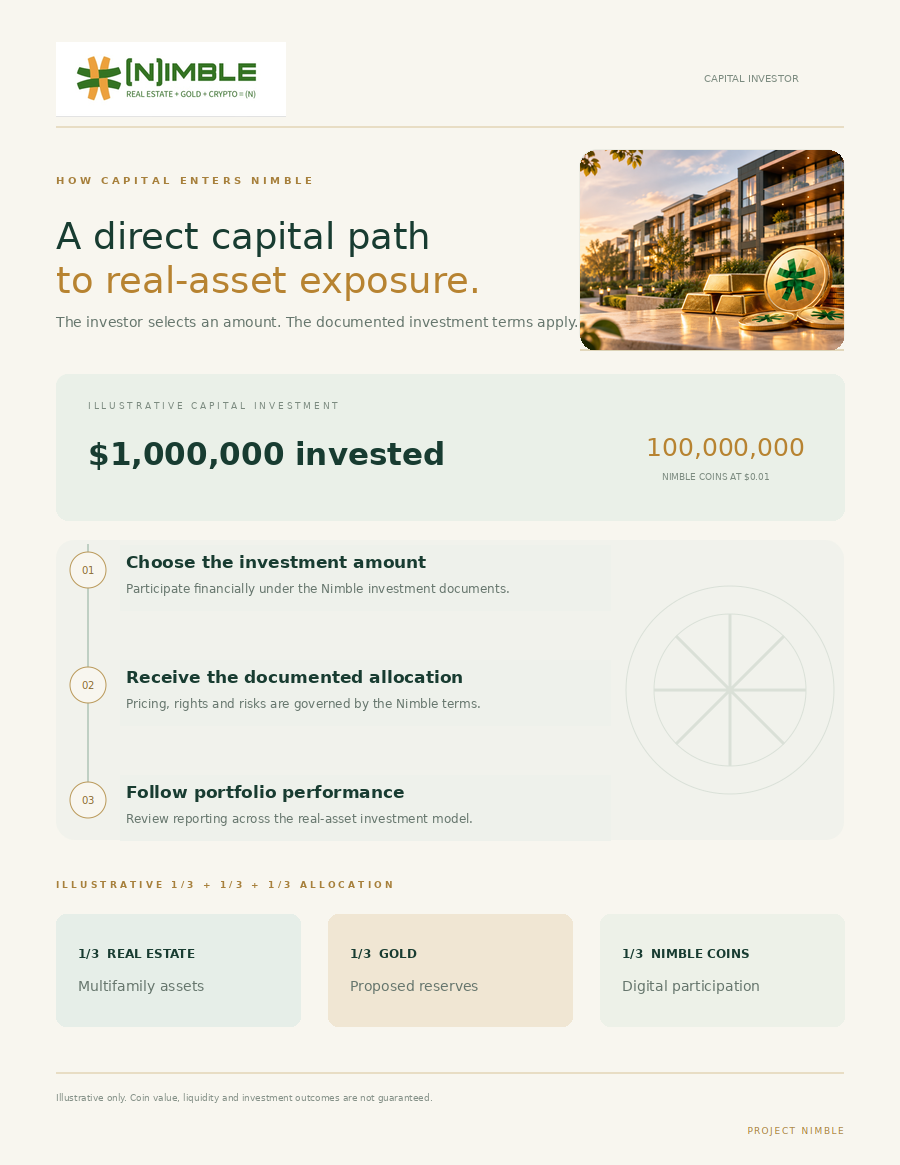
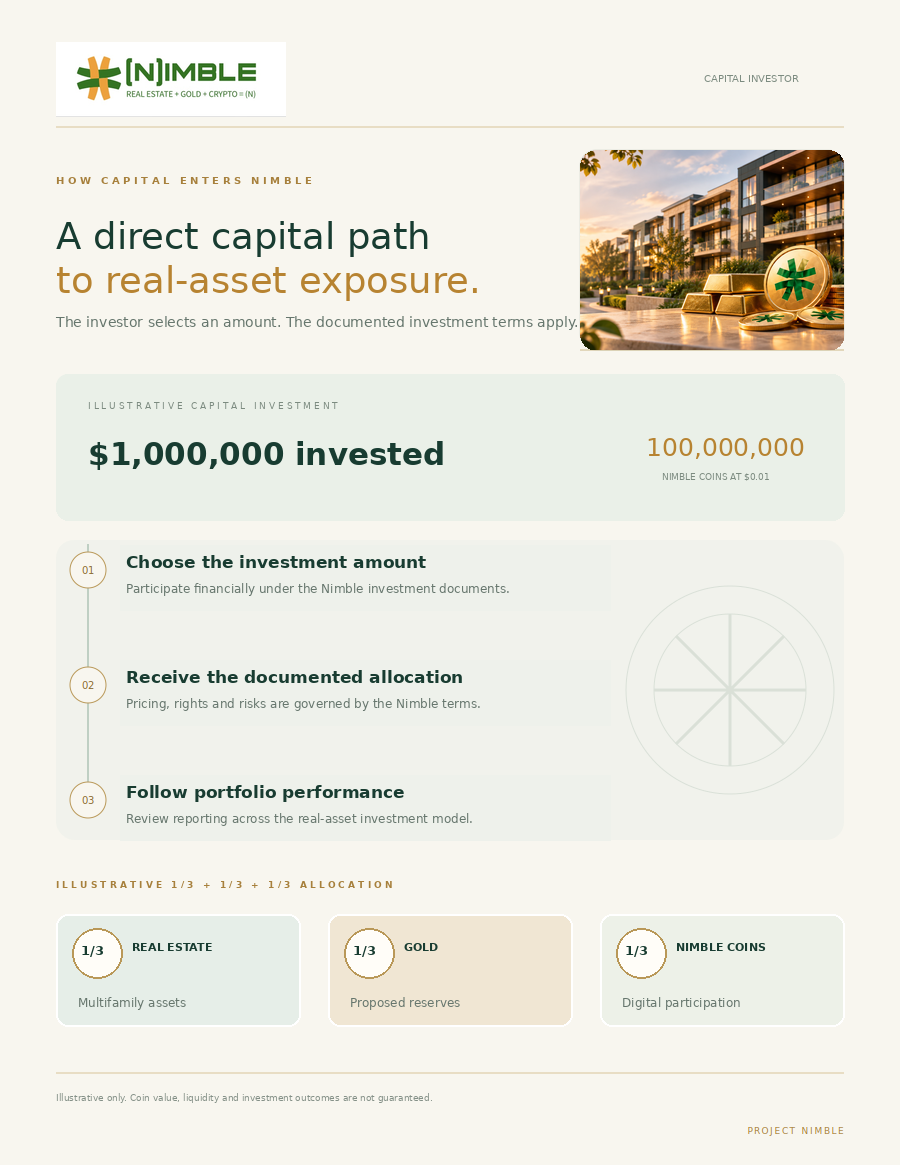
Refresh investor pages and allocation materials

Changed region(s): [[0.0622, 0.7725, 0.2178, 0.8652], [0.6844, 0.8034, 0.84, 0.8652], [0.3733, 0.7725, 0.5289, 0.8652]]

diff --git a/property-owners.html b/property-owners.html
@@ -2,6 +2,6 @@
 <header class="header container"><a class="brand" href="index.html"><img class="brand-logo" src="nimble-logo.jpg" alt="Project Nimble logo: Real Estate + Gold + Crypto = (N)"></a><nav class="nav"><a href="#approach">The approach</a><a href="#illustration">Owner example</a><a class="nav-cta" href="#next-step">Start a conversation</a></nav></header>
 <main><section class="container hero"><div><p class="kicker">For multifamily property owners</p><h1>Your property can be your investment in <em>Nimble.</em></h1><p class="lede">Contribute a qualifying multifamily property and convert its agreed value into a position within Nimble's real-estate, gold and digital-asset investment model.</p><div class="actions"><a class="button primary" href="#approach">Explore the property path <b>→</b></a><a class="button secondary" href="property-owner-sell-sheet.pdf">Sell sheet</a><a class="button secondary" href="property-owner-infographic.png">Infographic</a></div><p class="hero-note">Designed for multifamily properties, generally 20+ units. Every opportunity is subject to property review, valuation, agreement and documentation.</p></div><div class="visual property-photo"><img src="property-owner-hero.png" alt="Modern multifamily property with a dimensional Nimble coin"><span class="visual-label">Property value · translated into a Nimble position</span></div></section>
 <section class="section alt" id="approach"><div class="container"><div class="section-head"><p class="kicker">A property-first discussion</p><h2>Start with the building. Define the investment together.</h2><p>Each property has its own operating history, capital needs and ownership structure. The first conversation is about fit and diligence.</p></div><div class="steps"><article class="step"><span class="num">01 / PROPERTY</span><h3>Assess the asset</h3><p>Review unit count, operating history, condition, debt, valuation and ownership.</p></article><article class="step"><span class="num">02 / TERMS</span><h3>Set the transaction</h3><p>Document the agreed valuation, contribution mechanics, owner position and Nimble investment terms.</p></article><article class="step"><span class="num">03 / PORTFOLIO</span><h3>Plan the transition</h3><p>Define management, reporting, reserves and responsibilities before any property changes hands.</p></article></div></div></section>
-<section class="section" id="illustration"><div class="container"><div class="example"><div><p class="kicker">Illustrative property contribution</p><h2>$1 million in agreed property value.</h2><p>At the illustrative launch price of $0.01 per coin, a $1 million property contribution corresponds to 100 million Nimble coins, subject to the governing documents.</p></div><div><div class="example-figure"><div><strong>$1M</strong><span>Property value</span></div><div class="arrow">→</div><div><strong>100M</strong><span>Nimble coins at $0.01</span></div></div><div class="common-terms"><strong>Illustrative 1/3 + 1/3 + 1/3 allocation</strong><span>One-third real estate · one-third gold reserves · one-third Nimble coins.</span></div></div></div><div class="steps" style="margin-top:20px"><article class="step"><span class="num">1/3 / REAL ESTATE</span><h3>Multifamily assets</h3><p>Income-oriented property exposure within the documented Nimble structure.</p></article><article class="step"><span class="num">1/3 / GOLD</span><h3>Proposed reserves</h3><p>A tangible reserve component within the overall allocation.</p></article><article class="step"><span class="num">1/3 / NIMBLE COINS</span><h3>Digital participation</h3><p>The coin allocation is calculated from the documented value and reference price.</p></article></div><div class="split" style="margin-top:20px"><article class="split-card"><h3>Retained property interest</h3><p>Any interest retained by the contributing owner is documented separately from the three-part Nimble allocation.</p></article><article class="split-card"><h3>Defined in writing</h3><p>Valuation, ownership interests, coin allocation, decision rights and closing mechanics are established in the signed documents.</p></article></div></div></section>
+<section class="section" id="illustration"><div class="container"><div class="example"><div><p class="kicker">Illustrative property contribution</p><h2>$1 million in agreed property value.</h2><p>At the illustrative launch price of $0.01 per coin, a $1 million property contribution corresponds to 100 million Nimble coins, subject to the governing documents.</p></div><div><div class="common-terms allocation-summary"><strong>Illustrative 1/3 + 1/3 + 1/3 allocation</strong><span>One-third real estate · one-third gold reserves · one-third Nimble coins.</span></div><div class="example-figure"><div><strong>$1M</strong><span>Property value</span></div><div class="arrow">→</div><div><strong>100M</strong><span>Nimble coins at $0.01</span></div></div></div></div><div class="steps allocation-steps" style="margin-top:20px"><article class="step" data-share="⅓"><span class="num">1/3 / REAL ESTATE</span><h3>Multifamily assets</h3><p>Income-oriented property exposure within the documented Nimble structure.</p></article><article class="step" data-share="⅓"><span class="num">1/3 / GOLD</span><h3>Proposed reserves</h3><p>A tangible reserve component within the overall allocation.</p></article><article class="step" data-share="⅓"><span class="num">1/3 / NIMBLE COINS</span><h3>Digital participation</h3><p>The coin allocation is calculated from the documented value and reference price.</p></article></div><div class="split" style="margin-top:20px"><article class="split-card"><h3>Retained property interest</h3><p>Any interest retained by the contributing owner is documented separately from the three-part Nimble allocation.</p></article><article class="split-card"><h3>Defined in writing</h3><p>Valuation, ownership interests, coin allocation, decision rights and closing mechanics are established in the signed documents.</p></article></div></div></section>
 <section class="closing" id="next-step"><div class="container"><p class="kicker">Begin with your property</p><h2>Is your multifamily asset a fit for Nimble?</h2><p>Review the property-owner overview, then bring your asset profile and questions to an introductory discussion.</p><a class="button primary" href="property-owner-sell-sheet.pdf">Open property-owner sell sheet <b>↓</b></a></div></section></main>
 <footer class="container footer"><div class="footer-top"><a class="brand" href="index.html"><img class="brand-logo" src="nimble-logo.jpg" alt="Project Nimble logo: Real Estate + Gold + Crypto = (N)"></a><span>Property-owner investment overview</span></div><div class="disclaimer">Discussion draft only. This page does not constitute an offer, solicitation, appraisal, valuation or promise of investment outcome. Property valuation, any retained owner interest, coin allocation, decision rights and transaction mechanics are subject to due diligence, definitive agreements and applicable law. Coin value may change and is not guaranteed. A Nimble coin does not itself convey title to real estate.</div></footer></body></html>

diff --git a/financial-investors.html b/financial-investors.html
@@ -2,6 +2,6 @@
 <header class="header container"><a class="brand" href="index.html"><img class="brand-logo" src="nimble-logo.jpg" alt="Project Nimble logo: Real Estate + Gold + Crypto = (N)"></a><nav class="nav"><a href="#thesis">The approach</a><a href="#terms">Capital example</a><a class="nav-cta" href="#next-step">Explore Nimble</a></nav></header>
 <main><section class="container hero"><div><p class="kicker">For capital investors</p><h1>Put capital to work across <em>real assets.</em></h1><p class="lede">Invest financially in Nimble's model connecting professionally managed multifamily real estate, gold reserves and a digital participation instrument.</p><div class="actions"><a class="button primary" href="#thesis">See the investment approach <b>→</b></a><a class="button secondary" href="capital-investor-sell-sheet.pdf">Sell sheet</a><a class="button secondary" href="capital-investor-infographic.png">Infographic</a></div><p class="hero-note">Financial participation is governed by the Nimble investment documents. A Nimble coin does not itself grant title to an underlying property.</p></div><div class="visual capital-photo"><img src="capital-investor-hero.png" alt="Modern multifamily property with gold bars and dimensional Nimble-style coins"><span class="visual-label">Capital investment · real estate + gold + Nimble coins</span></div></section>
 <section class="section alt" id="thesis"><div class="container"><div class="section-head"><p class="kicker">Investment thesis</p><h2>A financial investment designed around three complementary components.</h2><p>Nimble connects professionally managed multifamily real estate, a proposed gold reserve component and Nimble coins within one documented investment framework.</p></div><div class="steps"><article class="step"><span class="num">01 / REAL ESTATE</span><h3>Multifamily assets</h3><p>Income-oriented residential properties form the operating base of the portfolio concept.</p></article><article class="step"><span class="num">02 / RESERVES</span><h3>Gold reserves</h3><p>A proposed reserve component intended to add a tangible store-of-value dimension.</p></article><article class="step"><span class="num">03 / DIGITAL</span><h3>Nimble coins</h3><p>A digital participation instrument whose rights, pricing and risks are defined in the governing documents.</p></article></div></div></section>
-<section class="section" id="terms"><div class="container"><div class="example"><div><p class="kicker">Illustrative capital investment</p><h2>$1 million invested financially.</h2><p>At the illustrative launch price of $0.01 per coin, a $1 million capital investment corresponds to 100 million Nimble coins, subject to the governing documents.</p></div><div><div class="example-figure"><div><strong>$1M</strong><span>Capital invested</span></div><div class="arrow">→</div><div><strong>100M</strong><span>Nimble coins at $0.01</span></div></div><div class="common-terms"><strong>Illustrative 1/3 + 1/3 + 1/3 allocation</strong><span>One-third real estate · one-third gold reserves · one-third Nimble coins.</span></div></div></div><div class="steps" style="margin-top:20px"><article class="step"><span class="num">1/3 / REAL ESTATE</span><h3>Multifamily assets</h3><p>Income-oriented property exposure within the documented Nimble structure.</p></article><article class="step"><span class="num">1/3 / GOLD</span><h3>Proposed reserves</h3><p>A tangible reserve component within the overall allocation.</p></article><article class="step"><span class="num">1/3 / NIMBLE COINS</span><h3>Digital participation</h3><p>The coin allocation is calculated from the documented investment and reference price.</p></article></div><div class="split" style="margin-top:20px"><article class="split-card"><h3>Financial participation only</h3><p>Capital investors use the same allocation framework without contributing or retaining a property interest.</p></article><article class="split-card"><h3>What to review</h3><p>Review the governing investment documents for pricing, rights, eligibility, risks, liquidity and use-of-funds terms.</p></article></div></div></section>
+<section class="section" id="terms"><div class="container"><div class="example"><div><p class="kicker">Illustrative capital investment</p><h2>$1 million invested financially.</h2><p>At the illustrative launch price of $0.01 per coin, a $1 million capital investment corresponds to 100 million Nimble coins, subject to the governing documents.</p></div><div><div class="common-terms allocation-summary"><strong>Illustrative 1/3 + 1/3 + 1/3 allocation</strong><span>One-third real estate · one-third gold reserves · one-third Nimble coins.</span></div><div class="example-figure"><div><strong>$1M</strong><span>Capital invested</span></div><div class="arrow">→</div><div><strong>100M</strong><span>Nimble coins at $0.01</span></div></div></div></div><div class="steps allocation-steps" style="margin-top:20px"><article class="step" data-share="⅓"><span class="num">1/3 / REAL ESTATE</span><h3>Multifamily assets</h3><p>Income-oriented property exposure within the documented Nimble structure.</p></article><article class="step" data-share="⅓"><span class="num">1/3 / GOLD</span><h3>Proposed reserves</h3><p>A tangible reserve component within the overall allocation.</p></article><article class="step" data-share="⅓"><span class="num">1/3 / NIMBLE COINS</span><h3>Digital participation</h3><p>The coin allocation is calculated from the documented investment and reference price.</p></article></div><div class="split" style="margin-top:20px"><article class="split-card"><h3>Financial participation only</h3><p>Capital investors use the same allocation framework without contributing or retaining a property interest.</p></article><article class="split-card"><h3>What to review</h3><p>Review the governing investment documents for pricing, rights, eligibility, risks, liquidity and use-of-funds terms.</p></article></div></div></section>
 <section class="closing" id="next-step"><div class="container"><p class="kicker">Capital participation</p><h2>Evaluate the Nimble investment opportunity.</h2><p>Review the capital-investor overview and the governing documents before making any investment decision.</p><a class="button primary" href="capital-investor-sell-sheet.pdf">Open capital-investor sell sheet <b>↓</b></a></div></section></main>
 <footer class="container footer"><div class="footer-top"><a class="brand" href="index.html"><img class="brand-logo" src="nimble-logo.jpg" alt="Project Nimble logo: Real Estate + Gold + Crypto = (N)"></a><span>Capital-investor overview</span></div><div class="disclaimer">Discussion draft only. This page does not constitute an offer, solicitation, investment recommendation or promise of investment outcome. Coin value may change and is not guaranteed. A Nimble coin does not itself convey title to real estate. Refer to the governing documents for the complete terms, risks and eligibility requirements.</div></footer></body></html>

diff --git a/styles.css b/styles.css
@@ -32,4 +32,30 @@
 /* Integrate the logo and navigation with the page instead of a separate strip. */
 .header{padding-right:24px;border-bottom:0;background:#fff}
 .brand-logo{mix-blend-mode:multiply}
+.example-figure>div:first-child,.example-figure>div:last-child{position:relative;padding:16px 10px 14px;border:1px solid #ffffff26;background:linear-gradient(145deg,#ffffff12,#ffffff04);border-radius:3px}
+.example-figure>div:first-child:before,.example-figure>div:last-child:before{content:'VALUE IN';position:absolute;top:-8px;left:12px;padding:0 6px;background:#20483c;color:#dbc17e;font:700 8px Manrope;letter-spacing:.14em}
+.example-figure>div:last-child:before{content:'COIN ALLOCATION'}
+.allocation-steps{margin-top:22px;position:relative}
+.allocation-steps .step{position:relative;overflow:hidden;border:1px solid #dfe4dc;background:linear-gradient(150deg,#fffdf8 10%,#eef2eb 100%);box-shadow:0 14px 32px #173b2e0c}
+.allocation-steps .step:after{content:attr(data-share);position:absolute;right:12px;bottom:-35px;font:500 94px/1 Manrope;color:#183c310d;pointer-events:none}
+.allocation-steps .step:nth-child(2){background:linear-gradient(150deg,#fffdf8 10%,#f1eadb 100%)}
+.allocation-steps .step h3,.allocation-steps .step p,.allocation-steps .step .num{position:relative;z-index:1}
+.allocation-steps .num{display:inline-block;padding:6px 9px;border-radius:30px;background:#b9985818}
+.example-figure>div:first-child:before{content:'PROPERTY VALUE';}
+.property-example .example-figure>div:first-child:before{content:'PROPERTY VALUE';}
+.capital-example .example-figure>div:first-child:before{content:'CAPITAL INVESTED';}
+.allocation-heading{display:flex;align-items:center;gap:14px;margin:28px 0 14px;color:var(--gold);font:700 10px Manrope;letter-spacing:.18em;text-transform:uppercase}
+.allocation-heading:after{content:'';height:1px;flex:1;background:linear-gradient(90deg,#b9985860,transparent)}
+.section .steps[style*="margin-top:20px"] .step{position:relative;overflow:hidden;background:linear-gradient(140deg,#fffdf9,#edf2eb);border-color:#dfe4dc;box-shadow:0 14px 30px #183c310c}
+.section .steps[style*="margin-top:20px"] .step:nth-child(2){background:linear-gradient(140deg,#fffdf9,#f0e8d8)}
+.section .steps[style*="margin-top:20px"] .step:after{content:'⅓';position:absolute;right:12px;bottom:-30px;font:500 104px/1 Manrope;color:#183c310c}
+.section .steps[style*="margin-top:20px"] .step .num{display:inline-block;padding:6px 9px;border-radius:30px;background:#b9985818}
+.split-card{position:relative;overflow:hidden}
+.split-card:first-child:before{content:'⅓';position:absolute;right:18px;top:-14px;font:500 76px Manrope;color:#183c310b}
 @media(max-width:760px){.header{padding-right:16px}}
+
+/* Bring the three-part allocation forward and give it a quieter visual hierarchy. */
+.example .allocation-summary{border:0;border-left:2px solid #d7bd76;margin:0 0 18px;padding:0 0 0 12px;gap:6px;align-items:flex-start;flex-direction:column;font-size:12px;color:#d1dbd3}
+.example .allocation-summary strong{font-size:13px;color:#f3e5b6}
+.example .example-figure{margin-top:2px}
+@media(max-width:760px){.example .allocation-summary{display:flex;margin-bottom:14px}.example .allocation-summary strong{display:block}}
